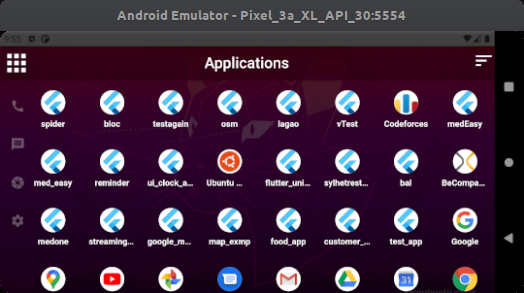
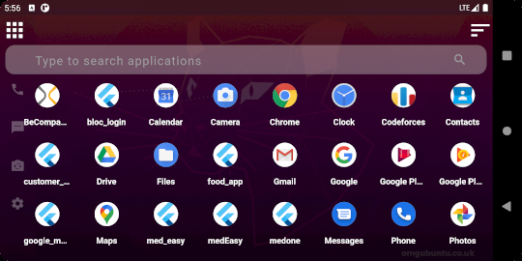
release ubuntu 2.3.0

diff --git a/lib/src/core/modules/home/views/home_page.dart b/lib/src/core/modules/home/views/home_page.dart
@@ -25,6 +25,7 @@ class Home extends StatelessWidget {
   bool autoOpenDrawer;
 
   // List<Application> shortcutApps = [];
+  //
 
   _launchCaller() async {
     const url = "tel:";
@@ -37,27 +38,32 @@ class Home extends StatelessWidget {
 
   void drawerApps() async {}
 
-  void getShortcutApps(apps) {
-    Application settings, camera, sms, phone;
+  void getShortcutApps(apps) async {
+    // Application settings, camera, sms, phone;
+    //
+    String settingsPackageNameDemo;
+    String messagesPackageNameDemo;
+    String cameraPackageNameDemo;
 
     for (int i = 0; i < apps.length; i++) {
       Application app = apps[i];
       if (app.appName == "Settings") {
-        // settingsPackageNameDemo = app.packageName;
-        settings = apps[i];
+        settingsPackageNameDemo = app.packageName;
+        // settings = apps[i];
       } else if (app.appName == "Camera") {
-        // cameraPackageNameDemo = app.packageName;
-        camera = apps[i];
+        cameraPackageNameDemo = app.packageName;
+        // camera = apps[i];
       } else if (app.appName == "Messages" || app.appName == "Messaging") {
-        // messagesPackageNameDemo = app.packageName;
-        sms = apps[i];
-      } else if (app.appName == "Phone" || app.appName == "Call") {
-        // messagesPackageNameDemo = app.packageName;
-        phone = apps[i];
+        messagesPackageNameDemo = app.packageName;
+        // sms = apps[i];
       }
+      //  else if (app.appName == "Phone" || app.appName == "Call") {
+      //   messagesPackageNameDemo = app.packageName;
+      //   // phone = apps[i];
+      // }
     }
 
-    List<Application> shortcutApps = [settings, camera, sms, phone];
+    // List<Application> shortcutApps = [settings, camera, sms, phone];
     // print("Testing cubit");
     // print(shortcutApps);
 
@@ -72,25 +78,30 @@ class Home extends StatelessWidget {
 //      "com.android.mms"
 //      "com.sonyericsson.conversations"
 
-    //check message app installed or  not
-    // if (await DeviceApps.isAppInstalled(messagesPackageNameDemo)) {
-    //   messagesPackageNameDemo = messagesPackageNameDemo;
-    // } else if (await DeviceApps.isAppInstalled(
-    //     "com.google.android.apps.messaging")) {
-    //   messagesPackageNameDemo = "com.google.android.apps.messaging";
-    // } else if (await DeviceApps.isAppInstalled("com.jb.gosms")) {
-    //   messagesPackageNameDemo = "com.jb.gosms";
-    // } else if (await DeviceApps.isAppInstalled(
-    //     "com.concentriclivers.mms.com.android.mms")) {
-    //   messagesPackageNameDemo = "com.concentriclivers.mms.com.android.mms";
-    // } else if (await DeviceApps.isAppInstalled("fr.slvn.mms")) {
-    //   messagesPackageNameDemo = "fr.slvn.mms";
-    // } else if (await DeviceApps.isAppInstalled("com.android.mms")) {
-    //   messagesPackageNameDemo = "com.android.mms";
-    // } else if (await DeviceApps.isAppInstalled(
-    //     "com.sonyericsson.conversations")) {
-    //   messagesPackageNameDemo = "com.sonyericsson.conversations";
-    // }
+    // check message app installed or  not
+    //
+    if (await DeviceApps.isAppInstalled(messagesPackageNameDemo)) {
+      messagesPackageNameDemo = messagesPackageNameDemo;
+    } else if (await DeviceApps.isAppInstalled(
+        "com.google.android.apps.messaging")) {
+      messagesPackageNameDemo = "com.google.android.apps.messaging";
+    } else if (await DeviceApps.isAppInstalled("com.jb.gosms")) {
+      messagesPackageNameDemo = "com.jb.gosms";
+    } else if (await DeviceApps.isAppInstalled(
+        "com.concentriclivers.mms.com.android.mms")) {
+      messagesPackageNameDemo = "com.concentriclivers.mms.com.android.mms";
+    } else if (await DeviceApps.isAppInstalled("fr.slvn.mms")) {
+      messagesPackageNameDemo = "fr.slvn.mms";
+    } else if (await DeviceApps.isAppInstalled("com.android.mms")) {
+      messagesPackageNameDemo = "com.android.mms";
+    } else if (await DeviceApps.isAppInstalled(
+        "com.sonyericsson.conversations")) {
+      messagesPackageNameDemo = "com.sonyericsson.conversations";
+    }
+
+    settingsPackageName = settingsPackageNameDemo;
+    cameraPackageName = cameraPackageNameDemo;
+    messagesPackageName = messagesPackageNameDemo;
   }
 
   // void navigateScreen(widget) async {
@@ -136,73 +147,74 @@ class Home extends StatelessWidget {
                 opacity: state is OpacityInitial ? 1 : .30,
                 child: SafeArea(
                     child: Container(
-                  color: Color.fromRGBO(39, 21, 40, 0.5),
-                  // Colors.pink.withOpacity(0.5),
-                  height: MediaQuery.of(context).size.height,
-                  width: 60.0,
-                  child: BlocBuilder<ShortcutAppsCubit, ShortcutAppsState>(
-                      builder: (context, state) {
-                    if (state is ShortcutAppsLoaded) {
-                      List<Application> shortcutApps = state.shortcutApps;
+                        color: Color.fromRGBO(39, 21, 40, 0.5),
+                        // Colors.pink.withOpacity(0.5),
+                        height: MediaQuery.of(context).size.height,
+                        width: 60.0,
+                        child: Column(
+                            mainAxisAlignment: MainAxisAlignment.spaceBetween,
+                            children: [
+                              Column(
+                                children: [
+                                  GestureDetector(
+                                    onTap: () {
+                                      opacityCubit.setOpacitySemi();
 
-                      print(shortcutApps.length);
-
-                      // List x =;
-
-                      return Column(
-                          mainAxisAlignment: MainAxisAlignment.spaceBetween,
-                          children: [
-                            Column(
-                              children: [
-                                GestureDetector(
-                                  onTap: () {
-                                    opacityCubit.setOpacitySemi();
-
-                                    Navigator.pushNamed(
-                                        context, AppDrawer.route);
-                                  },
-                                  child: Container(
-                                    padding: const EdgeInsets.all(10),
-                                    // width: 35,
-                                    child: ClipRRect(
-                                      child: Hero(
-                                        tag: 'drawer',
-                                        child: Image.asset(
-                                          "assets/images/drawer.png",
-                                          fit: BoxFit.cover,
+                                      Navigator.pushNamed(
+                                          context, AppDrawer.route);
+                                    },
+                                    child: Container(
+                                      padding: const EdgeInsets.all(10),
+                                      // width: 35,
+                                      child: ClipRRect(
+                                        child: Hero(
+                                          tag: 'drawer',
+                                          child: Image.asset(
+                                            "assets/images/drawer.png",
+                                            fit: BoxFit.cover,
+                                          ),
                                         ),
                                       ),
                                     ),
                                   ),
-                                ),
-                              ],
-                            ),
-                            Column(
-                              children: List.generate(
-                                shortcutApps.length,
-                                (index) {
-                                  Application shortcutApp = shortcutApps[index];
-                                  print("shortcutApp");
-                                  print(shortcutApp);
-                                  return shortcutApp is ApplicationWithIcon
-                                      ? shortcutAppsBuild(
-                                          shortcutApp.icon,
-                                          () => DeviceApps.openApp(
-                                              shortcutApp.packageName))
-                                      : null;
-                                },
+                                ],
                               ),
-                            ),
-                            Opacity(
-                              opacity: 0,
-                              child: IconButton(
-                                  onPressed: () {}, icon: Icon(Icons.menu)),
-                            ),
-                          ]);
-                    } else
-                      return Container();
-                  }),
-                )),
+                              Column(children: [
+                                shortcutAppsBuild(
+                                  Icon(
+                                    Icons.phone,
+                                    color: Colors.white,
+                                  ),
+                                  () => _launchCaller(),
+                                ),
+                                shortcutAppsBuild(
+                                  Icon(
+                                    Icons.sms_sharp,
+                                    color: Colors.white,
+                                  ),
+                                  () => DeviceApps.openApp(messagesPackageName),
+                                ),
+                                shortcutAppsBuild(
+                                  Icon(
+                                    Icons.flip_camera_ios,
+                                    color: Colors.white,
+                                  ),
+                                  () => DeviceApps.openApp(cameraPackageName),
+                                ),
+                                shortcutAppsBuild(
+                                  Icon(
+                                    Icons.settings,
+                                    color: Colors.white,
+                                  ),
+                                  () => DeviceApps.openApp(settingsPackageName),
+                                )
+                              ]),
+                              Opacity(
+                                opacity: 0,
+                                child: IconButton(
+                                    onPressed: () {}, icon: Icon(Icons.menu)),
+                              ),
+                            ]))),
               );
             },
           ),
@@ -220,6 +232,7 @@ class Home extends StatelessWidget {
               );
             else if (state is AppsLoaded) {
               apps = state.apps;
+              getShortcutApps(apps);
               return Container(
                 key: scaffoldKey,
                 decoration: BoxDecoration(
@@ -274,15 +287,9 @@ class Home extends StatelessWidget {
   }
 }
 
-Widget shortcutAppsBuild(Uint8List icon, Function fn) {
-  return GestureDetector(
-    onTap: fn,
-    child: Padding(
-      padding: const EdgeInsets.all(8),
-      child: Image.memory(
-        icon,
-        // color: Colors.transparent,
-      ),
-    ),
+Widget shortcutAppsBuild(Icon icon, Function fn) {
+  return Padding(
+    padding: const EdgeInsets.only(top: 15.0),
+    child: IconButton(icon: icon, onPressed: fn),
   );
 }

diff --git a/README.md b/README.md
@@ -7,7 +7,7 @@ Ubuntu Launcher
 <a href="https://github.com/jspw/Ubuntu-Launcher/releases">
 <img src="https://img.shields.io/github/downloads/jspw/ubuntu-launcher/total" />
 </a>
-<a href="https://github.com/jspw/Ubuntu-Launcher/releases/tag/2.2.0">
+<a href="https://github.com/jspw/Ubuntu-Launcher/releases/tag/2.3.0">
 <img src="https://img.shields.io/github/v/release/jspw/ubuntu-launcher" />
 </a>
 <a href='https://github.com/jspw/Ubuntu-Launcher/issues'>
@@ -31,9 +31,9 @@ width="150" hspace="10" vspace="10">
 Though flutter is a cross platform UI framework, the launcher has android version only for now.Our launcher is only available on github. Any update and release version will be available here.
 
 <p align="center">
-<a href="https://github.com/jspw/Ubuntu-Launcher/releases/tag/2.2.0">
+<a href="https://github.com/jspw/Ubuntu-Launcher/releases/tag/2.3.0">
     <img alt="Get it on Google Play"
-        src="https://img.shields.io/github/downloads/jspw/ubuntu-launcher/2.2.0/total?label=Download%20Now&logo=ubuntu%20launcher&style=for-the-badge" />
+        src="https://img.shields.io/github/downloads/jspw/ubuntu-launcher/2.3.0/total?label=Download%20Now&logo=ubuntu%20launcher&style=for-the-badge" />
 </a>  
 </p>
 
@@ -53,6 +53,7 @@ At first, it was made for myself having simple look and customization. Then i de
 - Slide Bar
 - Shortcut Apps on SideBar
 - Sort apps according to alphabetically, installation and update time
+- Apps Search bar
 - Animated navigation
 - View Apps' settings
 - Ad free
@@ -61,6 +62,7 @@ At first, it was made for myself having simple look and customization. Then i de
 
 - In App drawer, **Press Long** on app to open App Setting
 - Responsive (Can use as lanscape mode)
+- Search apps on app drawer using search bar
 
 ## Requirements
 
@@ -70,7 +72,7 @@ At first, it was made for myself having simple look and customization. Then i de
 
 ## Install
 
-- Latest : [Ubuntu Launcher 2.2.0](https://github.com/jspw/Ubuntu-Launcher/releases/tag/2.2.0)
+- Latest : [Ubuntu Launcher 2.3.0](https://github.com/jspw/Ubuntu-Launcher/releases/tag/2.3.0)
 - Old Versions : [Releases](https://github.com/jspw/Ubuntu-Launcher/releases)
 
 Download the apk file and install in your android device.
@@ -101,6 +103,8 @@ Download the apk file and install in your android device.
 
   ![SortOption](assets/ss/sorts.png)
 
+- **Search Bar**
+  ![Search Bar](assets/ss/searchbar.png)
 ### Demo
 
 <p align='center'>
